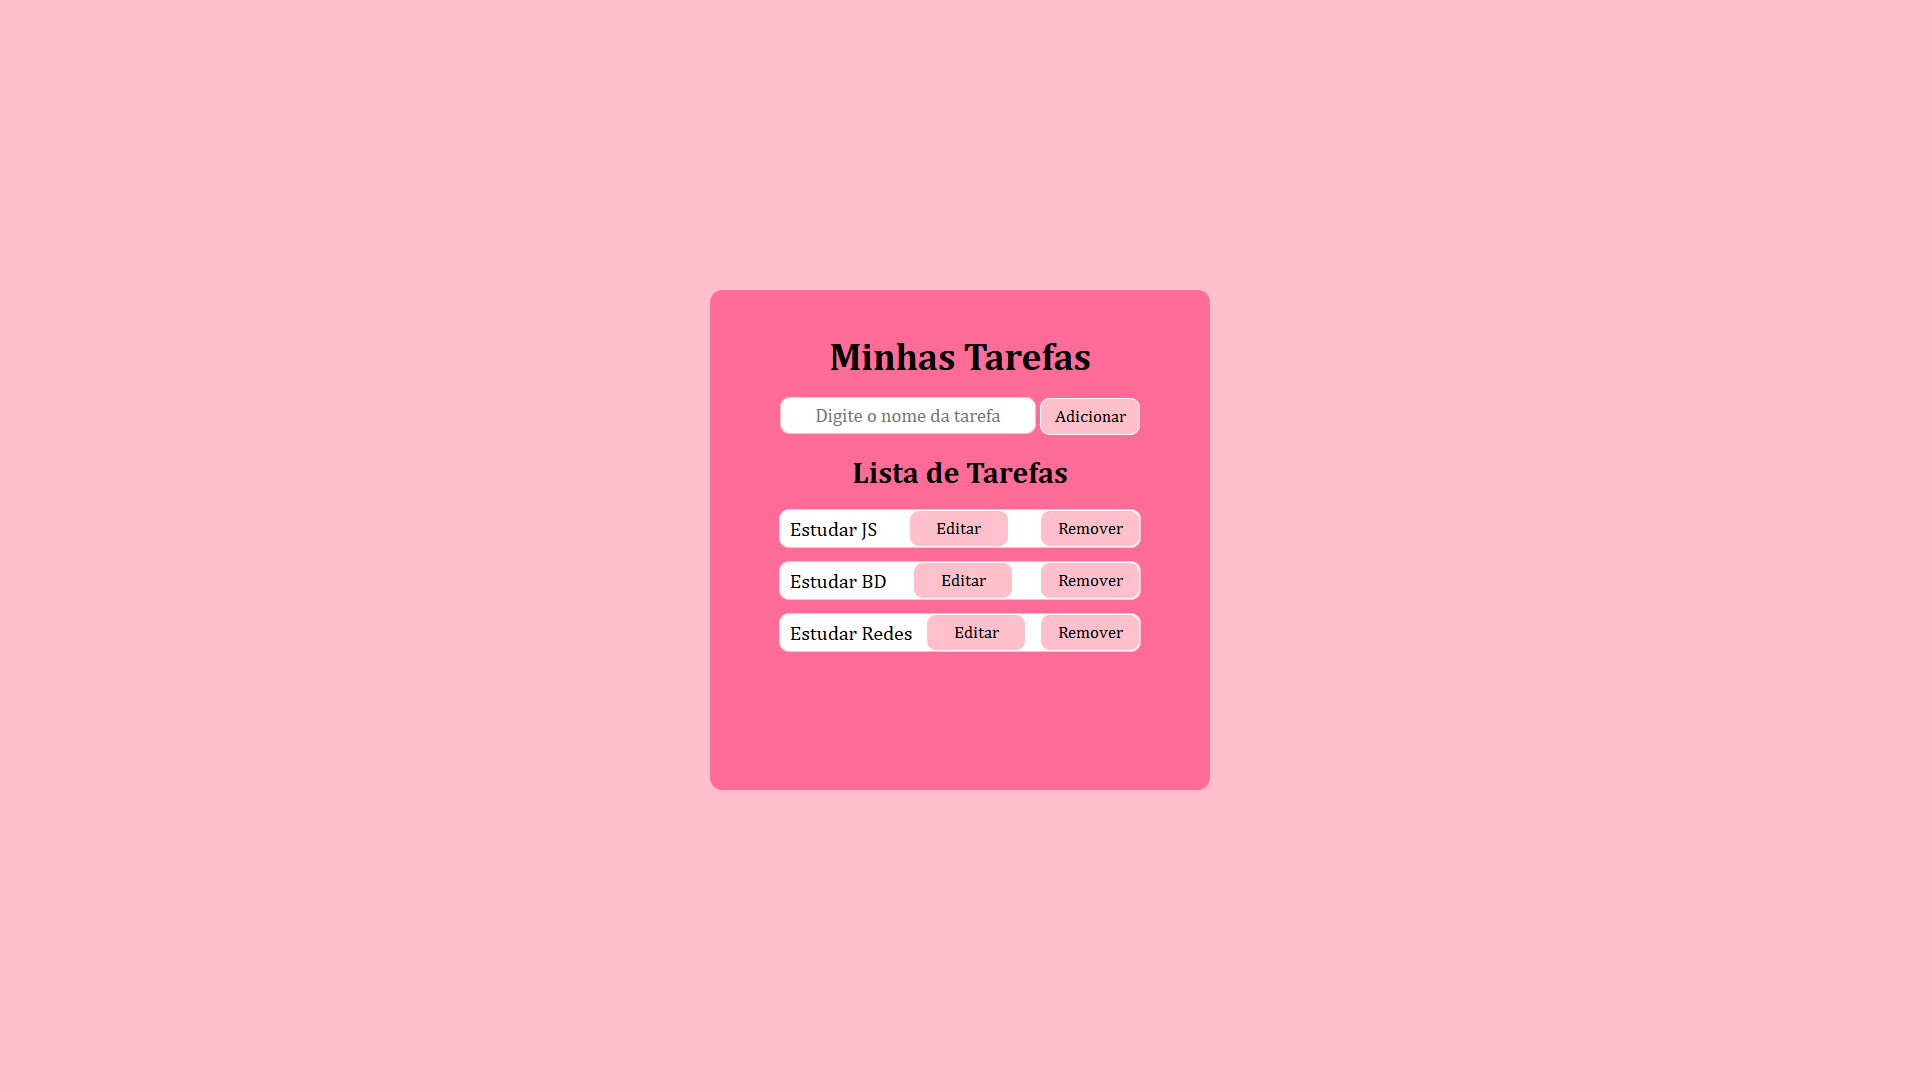
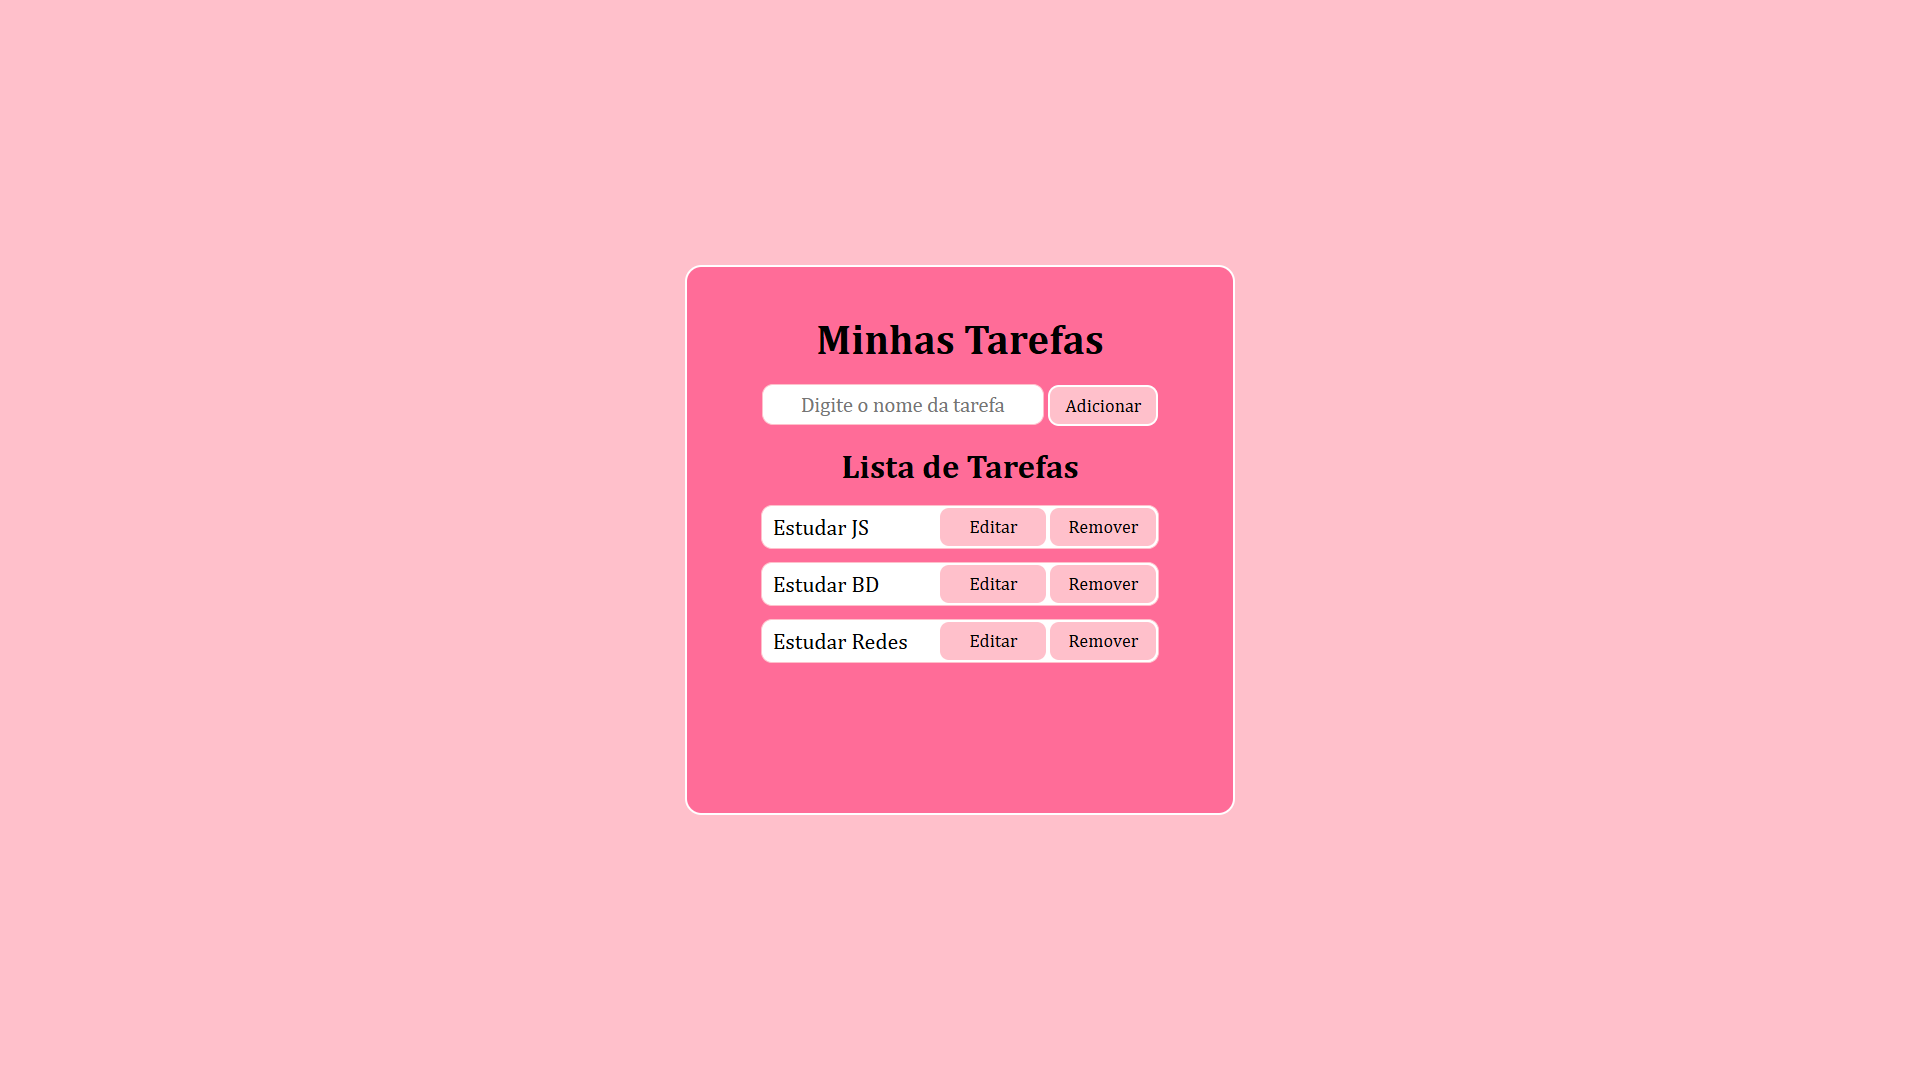
gerenciador de tarefas finalizado

Changed region(s): [[0.3438, 0.2444, 0.6562, 0.7639]]

diff --git a/aula_array/gerenciador_tarefas.html b/aula_array/gerenciador_tarefas.html
@@ -1,5 +1,5 @@
 <!DOCTYPE html>
-<html lang="en">
+<html lang="pt-br">
 
 <head>
     <meta charset="UTF-8">
@@ -9,73 +9,73 @@
 </head>
 
 <body>
+
     <div class="container-form">
         <h1>Minhas Tarefas</h1>
         <form id="form-tarefa">
             <input type="text" id="inputTarefa" placeholder="Digite o nome da tarefa">
             <button type="submit">Adicionar</button>
-        </form> 
-            <h2>Lista de Tarefas</h2>
-            <ul id="listaTarefas"></ul>
+        </form>
+        <h2>Lista de Tarefas</h2>
+        <ul id="listaTarefas"></ul>
     </div>
 
     <script>
-        let lista = ["Estudar JS", "Estudar BD", "Estudar Redes"]
-
+        let lista = ["Estudar JS", "Estudar BD", "Estudar Redes"];
         const form = document.getElementById("form-tarefa");
         const input = document.getElementById("inputTarefa");
         const ul = document.getElementById("listaTarefas");
 
         // Função p/ renderizar a lista na tela
         function atualizarLista() {
-
-            // limpa a lista
-            ul.innerHTML = "";
-
+            ul.innerHTML = ""; // limpa a lista
             lista.forEach((tarefa, index) => {
-                let li = document.createElement("li")
+                let li = document.createElement("li");
                 li.textContent = tarefa;
 
+                // Criar a div para os botões
+                let divBotoes = document.createElement("div");
+                divBotoes.className = "botoes";
+
                 // Botão editar
-                let bntEditar = document.createElement("button");
-                bntEditar.textContent = "Editar";
-
-                bntEditar.onclick = () => {
+                let btnEditar = document.createElement("button");
+                btnEditar.textContent = "Editar";
+                btnEditar.onclick = () => {
                     let novoNome = prompt("Digite o novo nome da tarefa: ");
-
                     if (novoNome) {
                         lista[index] = novoNome;
                         atualizarLista();
                     }
-                } // Fim do onclick do editar
+                };
 
                 // Botão remover
                 let btnRemover = document.createElement("button");
                 btnRemover.textContent = "Remover";
-
                 btnRemover.onclick = () => {
-                    lista.splice(index, 1)
+                    lista.splice(index, 1);
                     atualizarLista();
-                }
+                };
 
-                // Adicionar o botões no li
-                li.appendChild(bntEditar);
-                li.appendChild(btnRemover);
+                // Adicionar os botões à div
+                divBotoes.appendChild(btnEditar);
+                divBotoes.appendChild(btnRemover);
 
-                // Adicionar o botão no ul
+                // Adicionar a div ao li
+                li.appendChild(divBotoes);
+
+                // Adicionar li ao ul
                 ul.appendChild(li);
-
             });
-        } // Fim da função atualizar lista
+        }
 
         // Evento para adicionar uma tarefa
         form.addEventListener("submit", function (event) {
             event.preventDefault();
-
-            // Add uma tarefa ao array
-            lista.push(input.value);
-            input.value = "";
-            atualizarLista();
+            if (input.value.trim() !== "") {
+                lista.push(input.value.trim());
+                input.value = "";
+                atualizarLista();
+            }
         });
 
         // Renderizar a lista inicial

diff --git a/aula_array/style.css b/aula_array/style.css
@@ -36,11 +36,12 @@ body {
     padding-top: 35px;
     align-items: center;
     flex-direction: column;
-    border-radius: 10px;
+    border-radius: 12px;
     width: 400px;
     height: 400px;
     gap: 15px;
     background-color: var(--segudary-color);
+    border: 2px solid white;
 }
 
 .container-form input {
@@ -57,7 +58,7 @@ body {
     height: 30px;
     width: 80px;
     background-color: var(--principal-color);
-    border: 1px solid var(--border-color);
+    border: 2px solid var(--border-color);
     border-radius: 8px;
     font-family: var(--font-padrao);
 }
